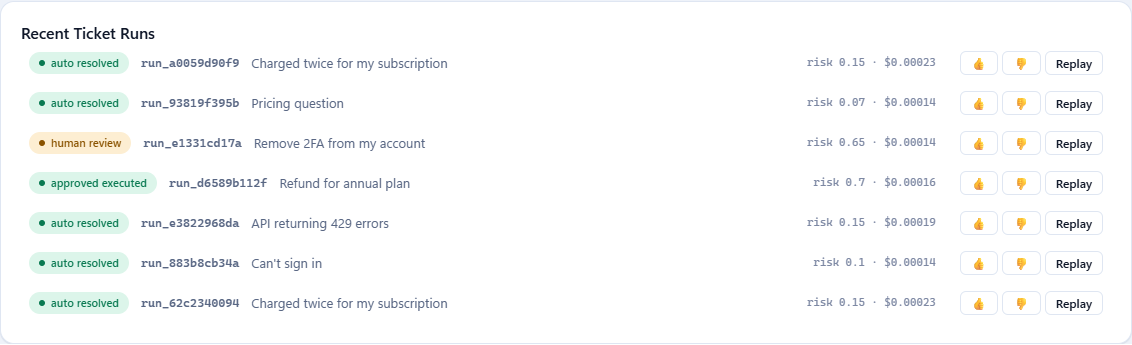
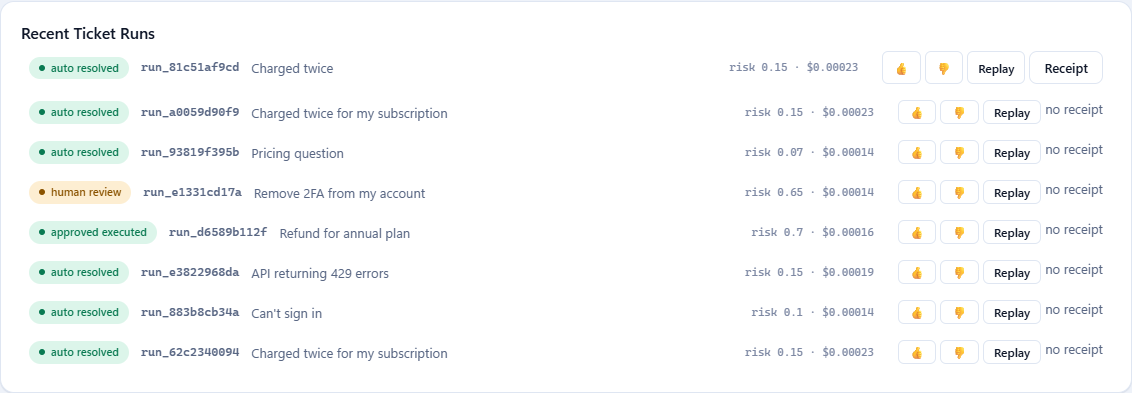
Dashboard: every signed run offers its receipt, and says when it has none
The receipt is the artifact, so it has to be reachable from the place an
operator already looks. Each run row now carries a Receipt download (the
same file the CLI verifies), and a run from before signing says "no
receipt" rather than leaving a silent gap — the absence is information.

The link is shaped like the buttons beside it: a download that renders as a
stray hyperlink in a row of controls is one people scroll past. `a.ghost`
shares the button base and hover rules instead of duplicating them.

diff --git a/dashboard/index.html b/dashboard/index.html
@@ -452,8 +452,9 @@
      page. `filter:brightness(1.1)` used to be the only hover state — it
      brightened the label along with the background and read as a rendering
      glitch, so each variant names its own hover colour instead. */
-  button{display:inline-flex; align-items:center; justify-content:center;
+  button, a.ghost{display:inline-flex; align-items:center; justify-content:center;
          gap:var(--sp-1); padding:9px 14px; white-space:nowrap;
+         text-decoration:none;
          border:1px solid transparent; border-radius:var(--r-sm);
          background:var(--accent); color:var(--on-accent);
          font:600 var(--fs-sm)/1 var(--font); cursor:pointer;
@@ -466,9 +467,12 @@
   button:hover{background:var(--accent-hover)}
   button:active{transform:translateY(1px); box-shadow:none}
   button:disabled{opacity:.55; cursor:not-allowed; transform:none}
-  button.ghost{background:var(--surface); border-color:var(--border);
+  /* Downloads are links, not buttons — same shape so a row of actions reads
+     as one control group instead of a button next to a stray hyperlink. */
+  button.ghost, a.ghost{background:var(--surface); border-color:var(--border);
                color:var(--text); box-shadow:none}
-  button.ghost:hover{background:var(--surface-3); border-color:var(--border-2)}
+  button.ghost:hover, a.ghost:hover{background:var(--surface-3);
+                                    border-color:var(--border-2)}
   button.approve{background:var(--good); color:var(--on-good)}
   button.approve:hover{background:var(--good-hover)}
   button.reject{background:transparent; border-color:var(--bad); color:var(--bad);
@@ -1481,6 +1485,10 @@ function renderRuns(runs, tickets) {
       <button class="ghost btn-sm" title="Mark this run as wrong and say why" aria-label="Mark run ${esc(id)} as wrong"
               onclick="giveFeedback('${id}','down')">👎</button>
       <button class="ghost btn-sm" onclick="replayRun('${id}')">Replay</button>
+      ${r.receipt_id
+        ? `<a class="ghost btn-sm" href="/api/runs/${esc(id)}/receipt.json" download
+              title="Signed decision receipt ${esc(r.receipt_id)} — verify it offline with python -m scripts.verify_receipt">Receipt</a>`
+        : `<span class="muted" title="${esc(r.receipt_error || "this run predates signed receipts")}">no receipt</span>`}
       </span>
     </div>`;
   }).join("");

diff --git a/tests/test_dashboard_wiring.py b/tests/test_dashboard_wiring.py
@@ -98,6 +98,17 @@ def test_the_handoff_switch_says_both_sides():
     assert "Price the human minutes our escalations use" not in HTML
 
 
+def test_every_signed_run_offers_its_receipt():
+    """A receipt nobody can find is not an artifact anyone can check."""
+    body = _function("renderRuns")
+    assert "r.receipt_id" in body
+    assert "/receipt.json" in body
+    assert "download" in body
+    # A run without one says so, instead of quietly offering nothing.
+    assert "no receipt" in body
+    assert "receipt_error" in body
+
+
 def test_disposition_vocabulary_is_defined_once():
     """Two maps drift; one map cannot. Both renderers share the pill helper."""
     assert HTML.count("const DISPOSITION_PILL") == 1
